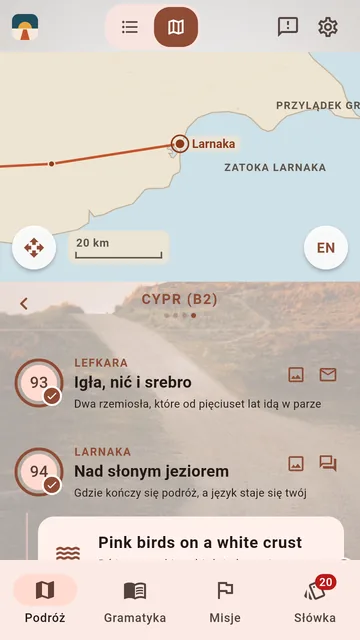
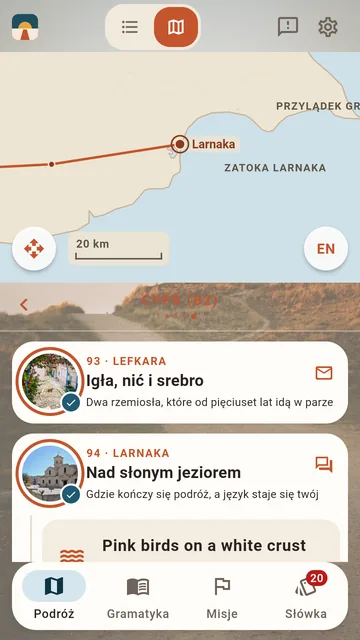
Bilder im Reisetagebuch (Camí 0.7.0)

diff --git a/fr/index.html b/fr/index.html
@@ -83,11 +83,11 @@ address { font-style: normal; margin: 0 0 14px; }
 </div>
 <p class="android">Pour Android 7 ou plus récent</p>
 <div class="fotos">
-<figure><img src="../bilder/fr/reise.webp?v=6271f895c6" width="360" height="640" loading="lazy" alt="Voyage"><figcaption>Voyage</figcaption></figure>
-<figure><img src="../bilder/fr/belohnung.webp?v=dccd6366aa" width="360" height="640" loading="lazy" alt="Récompense"><figcaption>Récompense</figcaption></figure>
-<figure><img src="../bilder/fr/karte.webp?v=b2062fe858" width="360" height="640" loading="lazy" alt="Carte"><figcaption>Carte</figcaption></figure>
-<figure><img src="../bilder/fr/missionen.webp?v=6bba0d2afb" width="360" height="640" loading="lazy" alt="Missions"><figcaption>Missions</figcaption></figure>
-<figure><img src="../bilder/fr/grammatik.webp?v=0ee4204dae" width="360" height="640" loading="lazy" alt="Grammaire"><figcaption>Grammaire</figcaption></figure>
+<figure><img src="../bilder/fr/reise.webp?v=1b4180646d" width="360" height="640" loading="lazy" alt="Voyage"><figcaption>Voyage</figcaption></figure>
+<figure><img src="../bilder/fr/belohnung.webp?v=f2248108f9" width="360" height="640" loading="lazy" alt="Récompense"><figcaption>Récompense</figcaption></figure>
+<figure><img src="../bilder/fr/karte.webp?v=11d95ce33a" width="360" height="640" loading="lazy" alt="Carte"><figcaption>Carte</figcaption></figure>
+<figure><img src="../bilder/fr/missionen.webp?v=13af70ca8c" width="360" height="640" loading="lazy" alt="Missions"><figcaption>Missions</figcaption></figure>
+<figure><img src="../bilder/fr/grammatik.webp?v=02e4a173e8" width="360" height="640" loading="lazy" alt="Grammaire"><figcaption>Grammaire</figcaption></figure>
 </div>
 <p>Camí est une application pour apprendre les langues, construite comme un voyage. Chaque étape est un lieu réel : Barcelone, le delta de l'Èbre, la serra de Tramuntana. Quand tu termines une étape, tu reçois une petite récompense — un proverbe, une recette, une scène sur place ou une carte postale qui reste en fond d'écran de l'application.</p>
 <h2>Seize langues, seize voyages</h2>

diff --git a/pl/index.html b/pl/index.html
@@ -83,11 +83,11 @@ address { font-style: normal; margin: 0 0 14px; }
 </div>
 <p class="android">Na Androida 7 lub nowszego</p>
 <div class="fotos">
-<figure><img src="../bilder/pl/reise.webp?v=4a0beb6e94" width="360" height="640" loading="lazy" alt="Podróż"><figcaption>Podróż</figcaption></figure>
-<figure><img src="../bilder/pl/belohnung.webp?v=d75e4b4628" width="360" height="640" loading="lazy" alt="Nagroda"><figcaption>Nagroda</figcaption></figure>
-<figure><img src="../bilder/pl/karte.webp?v=66ab7c67e5" width="360" height="640" loading="lazy" alt="Mapa"><figcaption>Mapa</figcaption></figure>
-<figure><img src="../bilder/pl/missionen.webp?v=c94588b215" width="360" height="640" loading="lazy" alt="Misje"><figcaption>Misje</figcaption></figure>
-<figure><img src="../bilder/pl/grammatik.webp?v=ebd624562d" width="360" height="640" loading="lazy" alt="Gramatyka"><figcaption>Gramatyka</figcaption></figure>
+<figure><img src="../bilder/pl/reise.webp?v=ac147f287e" width="360" height="640" loading="lazy" alt="Podróż"><figcaption>Podróż</figcaption></figure>
+<figure><img src="../bilder/pl/belohnung.webp?v=5954463966" width="360" height="640" loading="lazy" alt="Nagroda"><figcaption>Nagroda</figcaption></figure>
+<figure><img src="../bilder/pl/karte.webp?v=816ecbc8ef" width="360" height="640" loading="lazy" alt="Mapa"><figcaption>Mapa</figcaption></figure>
+<figure><img src="../bilder/pl/missionen.webp?v=fcb1b1ef79" width="360" height="640" loading="lazy" alt="Misje"><figcaption>Misje</figcaption></figure>
+<figure><img src="../bilder/pl/grammatik.webp?v=0eb6b36820" width="360" height="640" loading="lazy" alt="Gramatyka"><figcaption>Gramatyka</figcaption></figure>
 </div>
 <p>Camí to aplikacja do nauki języków zbudowana jak podróż. Każdy etap to prawdziwe miejsce: Lubeka nad Bałtykiem, Wiedeń, szkockie Highlands, klify zachodniej Irlandii. Po ukończeniu etapu dostajesz małą nagrodę — przysłowie, przepis, scenkę z tego miejsca albo pocztówkę, która zostaje jako tło aplikacji.</p>
 <h2>Po polsku: niemiecki, angielski, islandzki i norweski</h2>

diff --git a/de/index.html b/de/index.html
@@ -83,11 +83,11 @@ address { font-style: normal; margin: 0 0 14px; }
 </div>
 <p class="android">Für Android ab Version 7</p>
 <div class="fotos">
-<figure><img src="../bilder/de/reise.webp?v=f63d8b96f1" width="360" height="640" loading="lazy" alt="Reise"><figcaption>Reise</figcaption></figure>
-<figure><img src="../bilder/de/belohnung.webp?v=40b249d203" width="360" height="640" loading="lazy" alt="Belohnung"><figcaption>Belohnung</figcaption></figure>
-<figure><img src="../bilder/de/karte.webp?v=bf3bd0d43b" width="360" height="640" loading="lazy" alt="Karte"><figcaption>Karte</figcaption></figure>
-<figure><img src="../bilder/de/missionen.webp?v=0f811412e3" width="360" height="640" loading="lazy" alt="Missionen"><figcaption>Missionen</figcaption></figure>
-<figure><img src="../bilder/de/grammatik.webp?v=a542bdd92a" width="360" height="640" loading="lazy" alt="Grammatik"><figcaption>Grammatik</figcaption></figure>
+<figure><img src="../bilder/de/reise.webp?v=21519c2fa2" width="360" height="640" loading="lazy" alt="Reise"><figcaption>Reise</figcaption></figure>
+<figure><img src="../bilder/de/belohnung.webp?v=b4ca3cbe17" width="360" height="640" loading="lazy" alt="Belohnung"><figcaption>Belohnung</figcaption></figure>
+<figure><img src="../bilder/de/karte.webp?v=d42db5f316" width="360" height="640" loading="lazy" alt="Karte"><figcaption>Karte</figcaption></figure>
+<figure><img src="../bilder/de/missionen.webp?v=842533736f" width="360" height="640" loading="lazy" alt="Missionen"><figcaption>Missionen</figcaption></figure>
+<figure><img src="../bilder/de/grammatik.webp?v=bb06f0d8b3" width="360" height="640" loading="lazy" alt="Grammatik"><figcaption>Grammatik</figcaption></figure>
 </div>
 <p>Camí ist eine Sprachlern-App, die wie eine Reise aufgebaut ist. Jede Etappe ist ein echter Ort: Barcelona, das Ebro-Delta, die Serra de Tramuntana. Wer eine Etappe abschließt, bekommt eine kleine Belohnung — ein Sprichwort, ein Rezept, eine Szene am Ort oder eine Postkarte, die als Hintergrund der App bleibt.</p>
 <h2>Sechzehn sprachen, sechzehn reisen</h2>

diff --git a/ca/index.html b/ca/index.html
@@ -83,11 +83,11 @@ address { font-style: normal; margin: 0 0 14px; }
 </div>
 <p class="android">Per a Android 7 o posterior</p>
 <div class="fotos">
-<figure><img src="../bilder/ca/reise.webp?v=e02dcaedec" width="360" height="640" loading="lazy" alt="Viatge"><figcaption>Viatge</figcaption></figure>
-<figure><img src="../bilder/ca/belohnung.webp?v=5b37994a86" width="360" height="640" loading="lazy" alt="Recompensa"><figcaption>Recompensa</figcaption></figure>
-<figure><img src="../bilder/ca/karte.webp?v=526f4494a4" width="360" height="640" loading="lazy" alt="Mapa"><figcaption>Mapa</figcaption></figure>
-<figure><img src="../bilder/ca/missionen.webp?v=f568cf6618" width="360" height="640" loading="lazy" alt="Missions"><figcaption>Missions</figcaption></figure>
-<figure><img src="../bilder/ca/grammatik.webp?v=ac4a38ce68" width="360" height="640" loading="lazy" alt="Gramàtica"><figcaption>Gramàtica</figcaption></figure>
+<figure><img src="../bilder/ca/reise.webp?v=b1472009a7" width="360" height="640" loading="lazy" alt="Viatge"><figcaption>Viatge</figcaption></figure>
+<figure><img src="../bilder/ca/belohnung.webp?v=27ceae1976" width="360" height="640" loading="lazy" alt="Recompensa"><figcaption>Recompensa</figcaption></figure>
+<figure><img src="../bilder/ca/karte.webp?v=f3ad215a0f" width="360" height="640" loading="lazy" alt="Mapa"><figcaption>Mapa</figcaption></figure>
+<figure><img src="../bilder/ca/missionen.webp?v=82116e83a3" width="360" height="640" loading="lazy" alt="Missions"><figcaption>Missions</figcaption></figure>
+<figure><img src="../bilder/ca/grammatik.webp?v=f254bdab96" width="360" height="640" loading="lazy" alt="Gramàtica"><figcaption>Gramàtica</figcaption></figure>
 </div>
 <p>Camí és una aplicació per aprendre idiomes feta com un viatge. Cada etapa és un lloc real: Barcelona, el delta de l'Ebre, la serra de Tramuntana. Quan acabes una etapa, reps una petita recompensa — una dita, una recepta, una escena en aquell lloc o una postal que es queda com a fons de l'aplicació.</p>
 <h2>Setze llengües, setze viatges</h2>

diff --git a/es/index.html b/es/index.html
@@ -83,11 +83,11 @@ address { font-style: normal; margin: 0 0 14px; }
 </div>
 <p class="android">Para Android 7 o posterior</p>
 <div class="fotos">
-<figure><img src="../bilder/es/reise.webp?v=252f287553" width="360" height="640" loading="lazy" alt="Viaje"><figcaption>Viaje</figcaption></figure>
-<figure><img src="../bilder/es/belohnung.webp?v=5ddb8e3f68" width="360" height="640" loading="lazy" alt="Recompensa"><figcaption>Recompensa</figcaption></figure>
-<figure><img src="../bilder/es/karte.webp?v=f3914b4941" width="360" height="640" loading="lazy" alt="Mapa"><figcaption>Mapa</figcaption></figure>
-<figure><img src="../bilder/es/missionen.webp?v=ff1ebc2788" width="360" height="640" loading="lazy" alt="Misiones"><figcaption>Misiones</figcaption></figure>
-<figure><img src="../bilder/es/grammatik.webp?v=4d1b750536" width="360" height="640" loading="lazy" alt="Gramática"><figcaption>Gramática</figcaption></figure>
+<figure><img src="../bilder/es/reise.webp?v=26d6c8b395" width="360" height="640" loading="lazy" alt="Viaje"><figcaption>Viaje</figcaption></figure>
+<figure><img src="../bilder/es/belohnung.webp?v=6d70822d63" width="360" height="640" loading="lazy" alt="Recompensa"><figcaption>Recompensa</figcaption></figure>
+<figure><img src="../bilder/es/karte.webp?v=d9fdf19509" width="360" height="640" loading="lazy" alt="Mapa"><figcaption>Mapa</figcaption></figure>
+<figure><img src="../bilder/es/missionen.webp?v=2842047aac" width="360" height="640" loading="lazy" alt="Misiones"><figcaption>Misiones</figcaption></figure>
+<figure><img src="../bilder/es/grammatik.webp?v=fdcc4af6eb" width="360" height="640" loading="lazy" alt="Gramática"><figcaption>Gramática</figcaption></figure>
 </div>
 <p>Camí es una app para aprender idiomas construida como un viaje. Cada etapa es un lugar real: Barcelona, el delta del Ebro, la Serra de Tramuntana. Al terminar una etapa recibes una pequeña recompensa: un refrán, una receta, una escena en ese lugar o una postal que se queda como fondo de la app.</p>
 <h2>En español: doce idiomas</h2>

diff --git a/index.html b/index.html
@@ -83,11 +83,11 @@ address { font-style: normal; margin: 0 0 14px; }
 </div>
 <p class="android">For Android 7 and later</p>
 <div class="fotos">
-<figure><img src="bilder/en/reise.webp?v=843e31190c" width="360" height="640" loading="lazy" alt="Journey"><figcaption>Journey</figcaption></figure>
-<figure><img src="bilder/en/belohnung.webp?v=d8a58a303e" width="360" height="640" loading="lazy" alt="Reward"><figcaption>Reward</figcaption></figure>
-<figure><img src="bilder/en/karte.webp?v=f93724a0d9" width="360" height="640" loading="lazy" alt="Map"><figcaption>Map</figcaption></figure>
-<figure><img src="bilder/en/missionen.webp?v=0f01b63d9b" width="360" height="640" loading="lazy" alt="Missions"><figcaption>Missions</figcaption></figure>
-<figure><img src="bilder/en/grammatik.webp?v=bb3817dc39" width="360" height="640" loading="lazy" alt="Grammar"><figcaption>Grammar</figcaption></figure>
+<figure><img src="bilder/en/reise.webp?v=d41cdcd498" width="360" height="640" loading="lazy" alt="Journey"><figcaption>Journey</figcaption></figure>
+<figure><img src="bilder/en/belohnung.webp?v=680b455268" width="360" height="640" loading="lazy" alt="Reward"><figcaption>Reward</figcaption></figure>
+<figure><img src="bilder/en/karte.webp?v=f5a65819c0" width="360" height="640" loading="lazy" alt="Map"><figcaption>Map</figcaption></figure>
+<figure><img src="bilder/en/missionen.webp?v=365f63b687" width="360" height="640" loading="lazy" alt="Missions"><figcaption>Missions</figcaption></figure>
+<figure><img src="bilder/en/grammatik.webp?v=b7f53a951b" width="360" height="640" loading="lazy" alt="Grammar"><figcaption>Grammar</figcaption></figure>
 </div>
 <p>Camí is a language app built like a journey. Every stage is a real place: Barcelona, the Ebro Delta, the Serra de Tramuntana. Finish a stage and you get a small reward — a proverb, a recipe, a scene set in that place, or a postcard that stays as the app's background.</p>
 <h2>Sixteen languages, sixteen journeys</h2>
